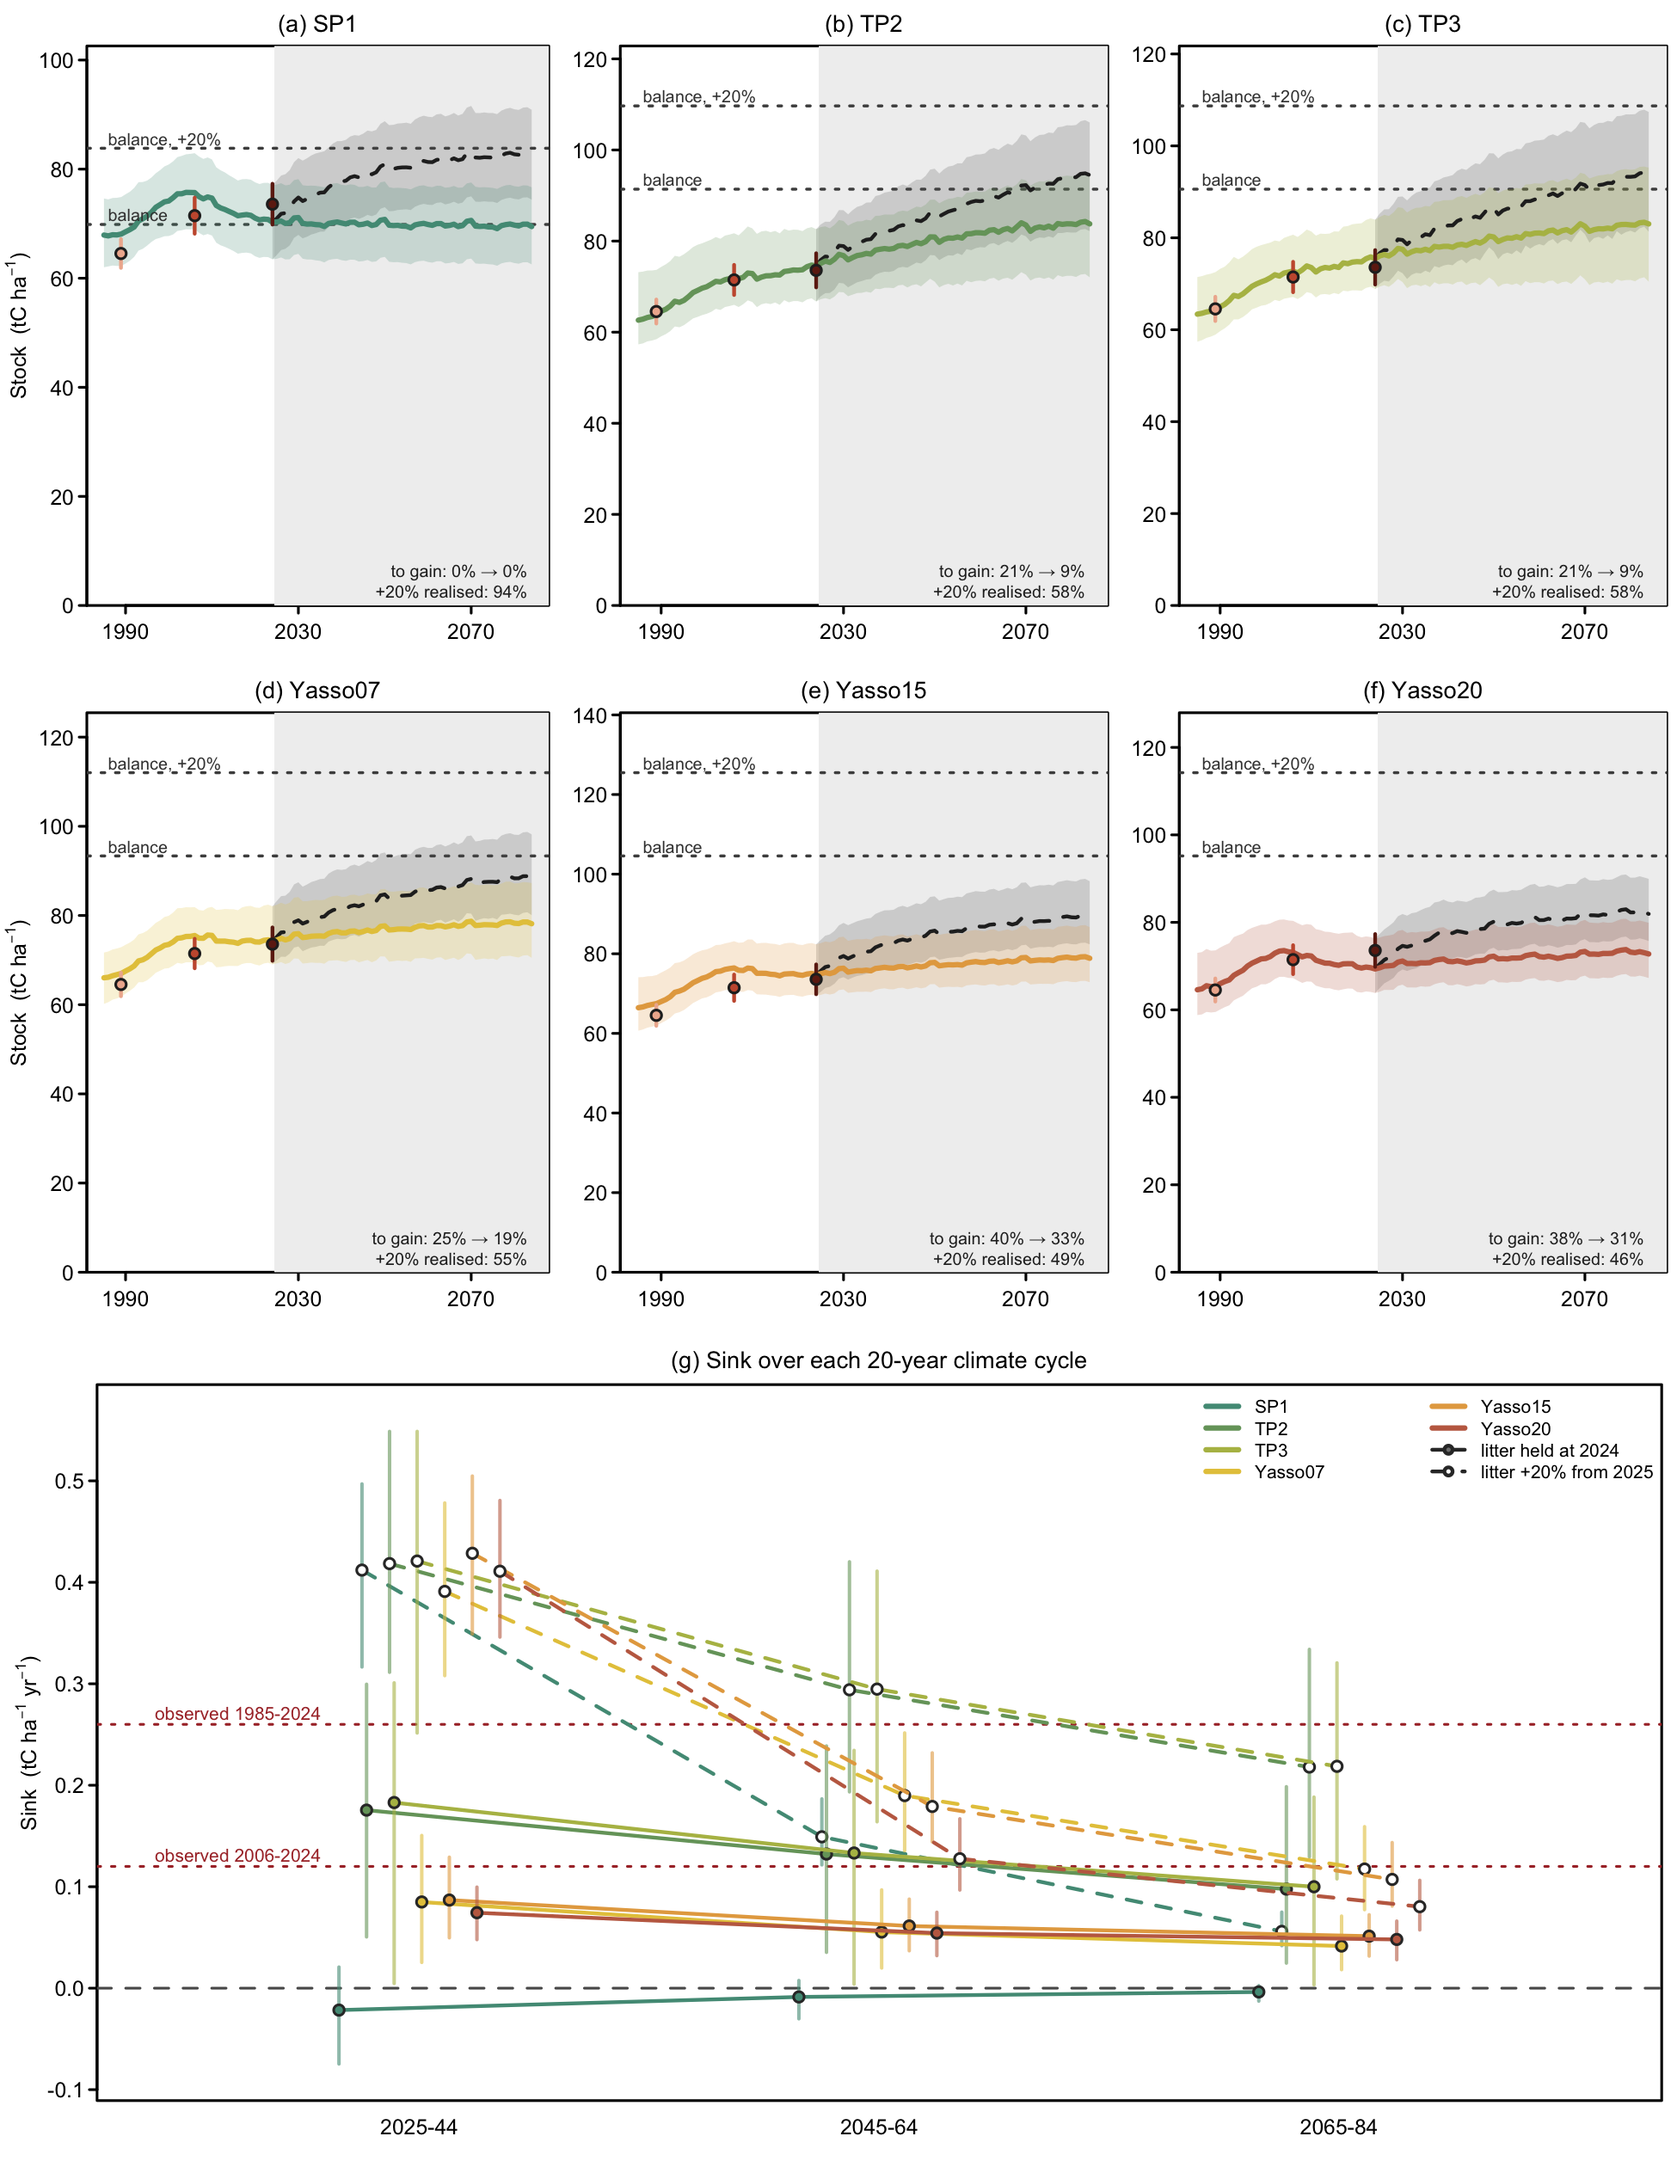
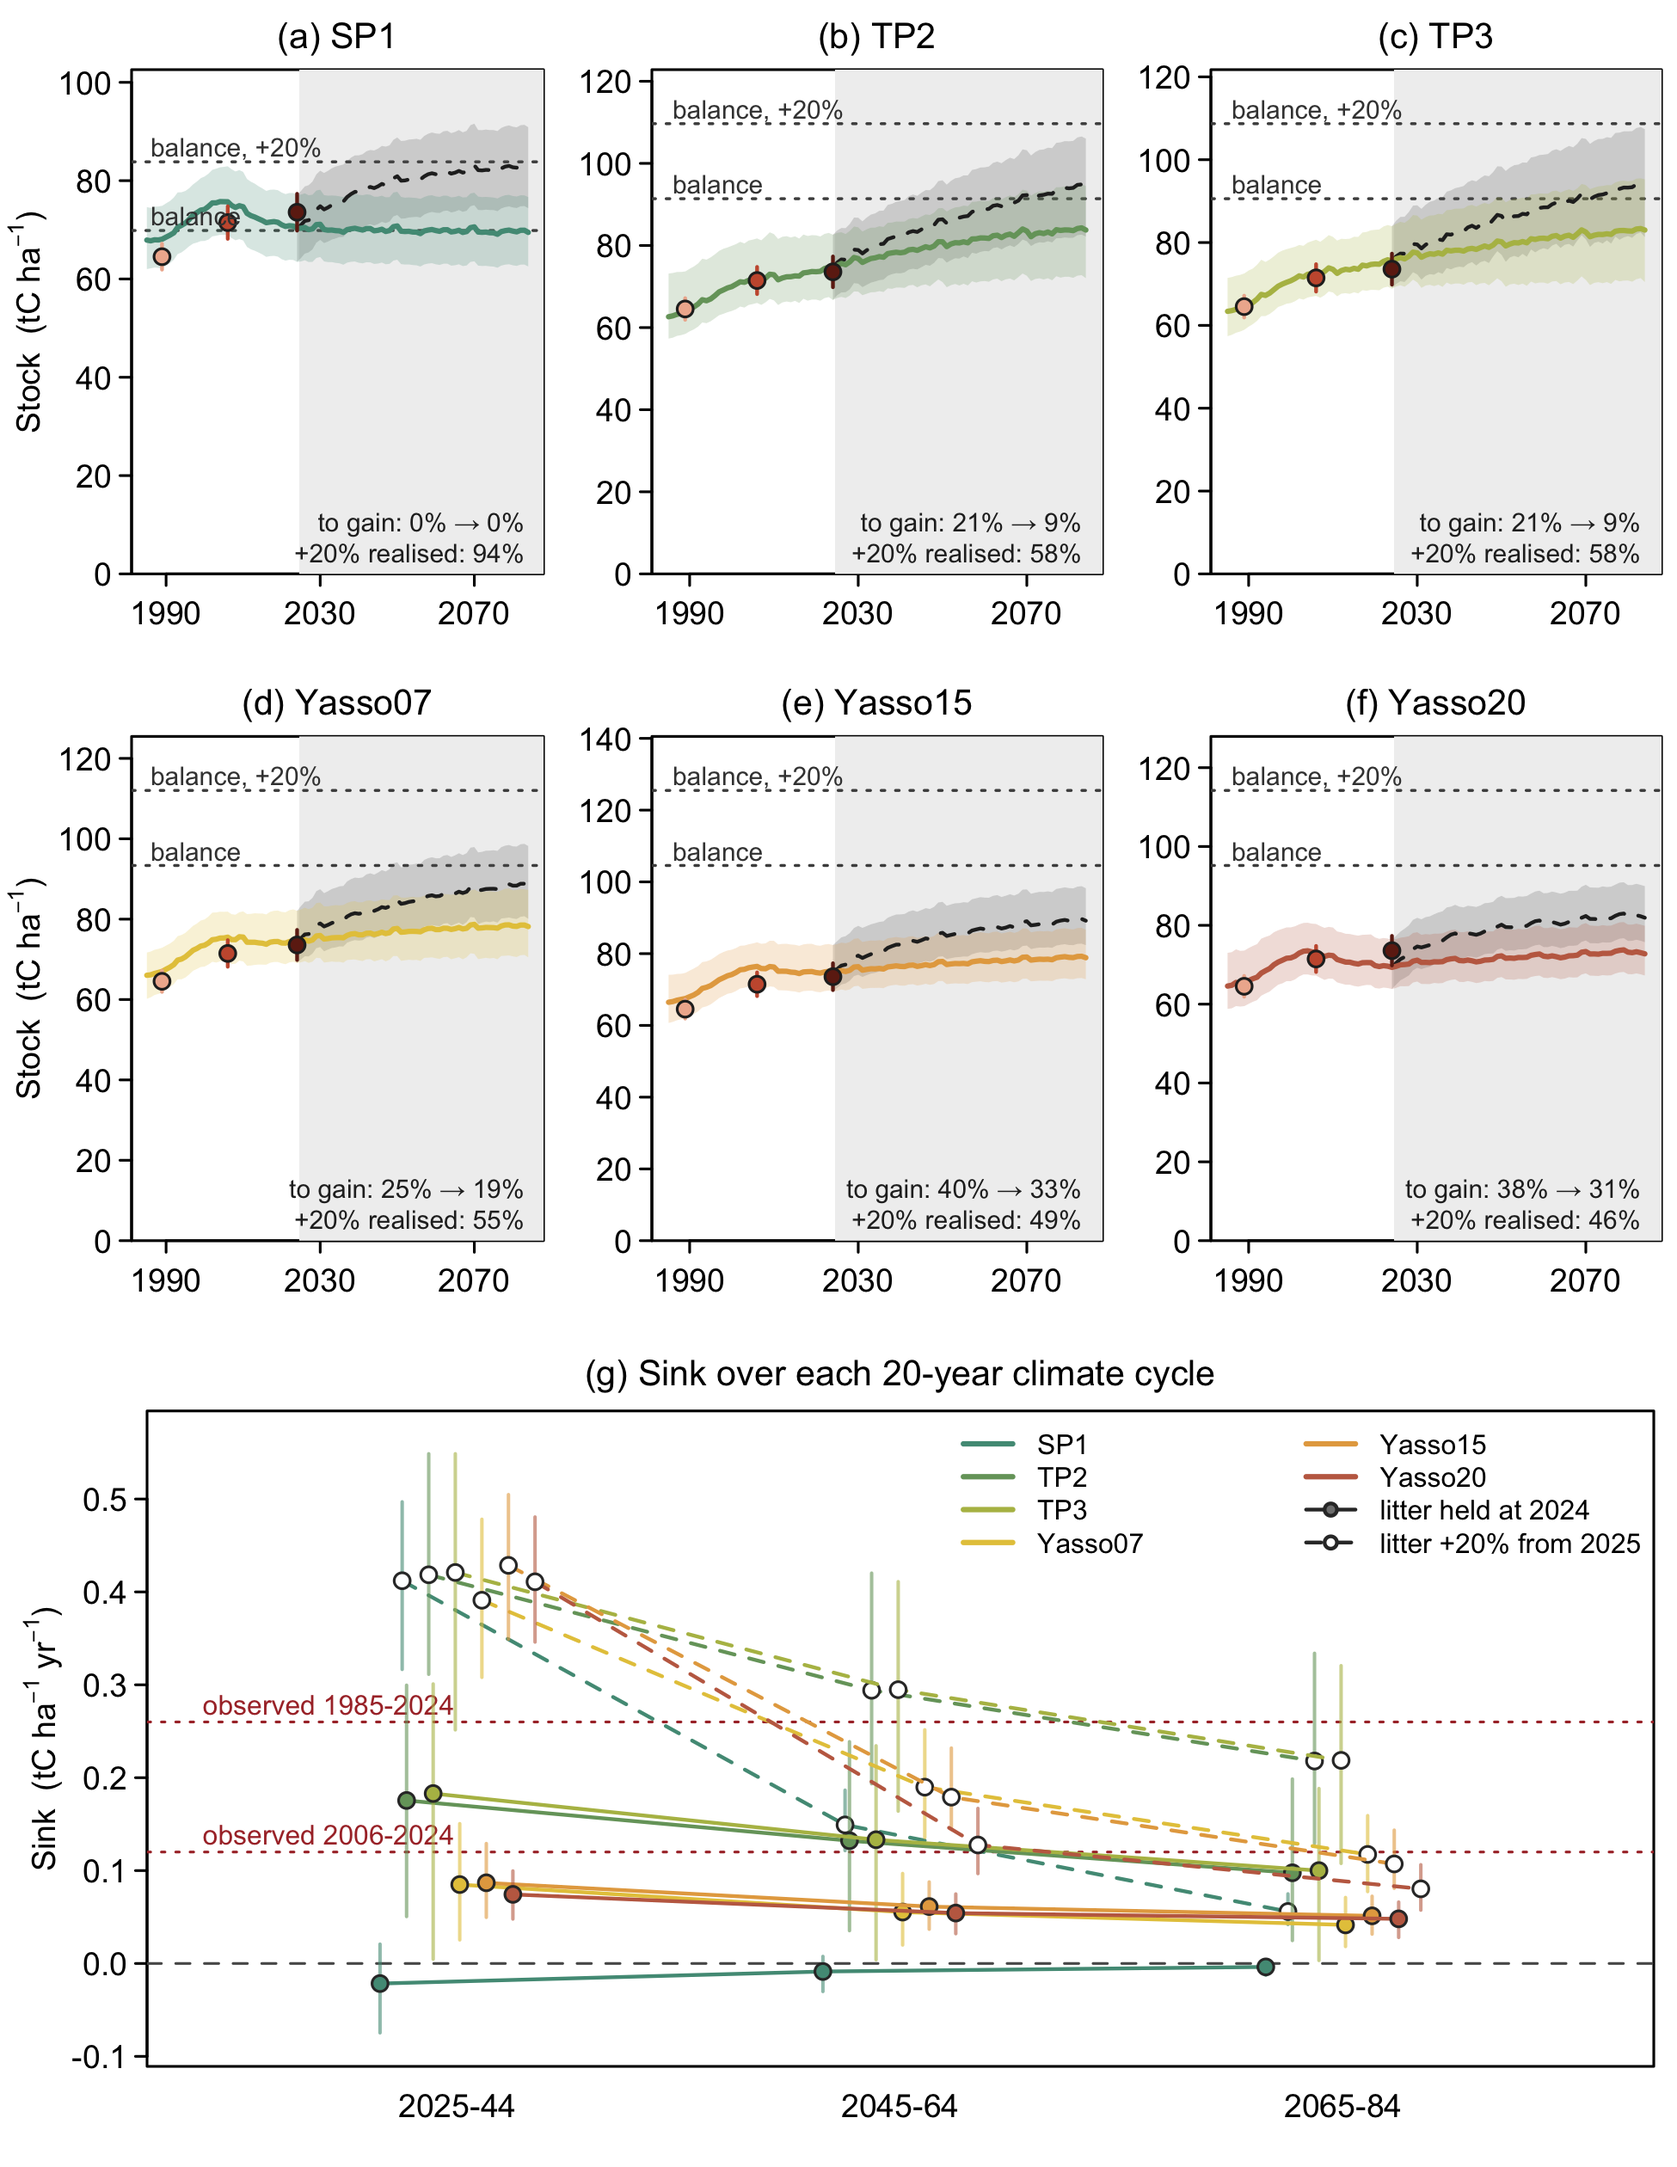
All draft-v2 figures redrawn at print size (9 pt, no text below ~7 pt): text-scale reset after multi-panel layouts, titles and footnotes moved to captions, stale F9/SX window labels corrected

diff --git a/manuscript/HIKET_draft_v2.tex b/manuscript/HIKET_draft_v2.tex
@@ -1686,7 +1686,8 @@ production. Right: the initial input ratio, the 1917 litter input over the 1985 
 calibration, against independent estimates of the same flux.} Green: inventory-based litter
 products; blue: independent estimates of net primary production, which bound the litter flux
 from above; lower group: the effective flux inferred here for each of the six models. Bars are
-reported ranges for the literature and $95\%$ posterior intervals for the models.}
+reported ranges for the literature and $95\%$ posterior intervals for the models; the dotted
+line marks the upper bound of the prior on the effective input (Section~\ref{supp:inputprior}).}
 \hfig{S15_attribution_by_model_recal}{0.95}{S_attr_models}{\textbf{The modelled sink divided into
 its three parts, model by model.} As Figure~\ref{fig:S16}, for each of the six models.}
 
